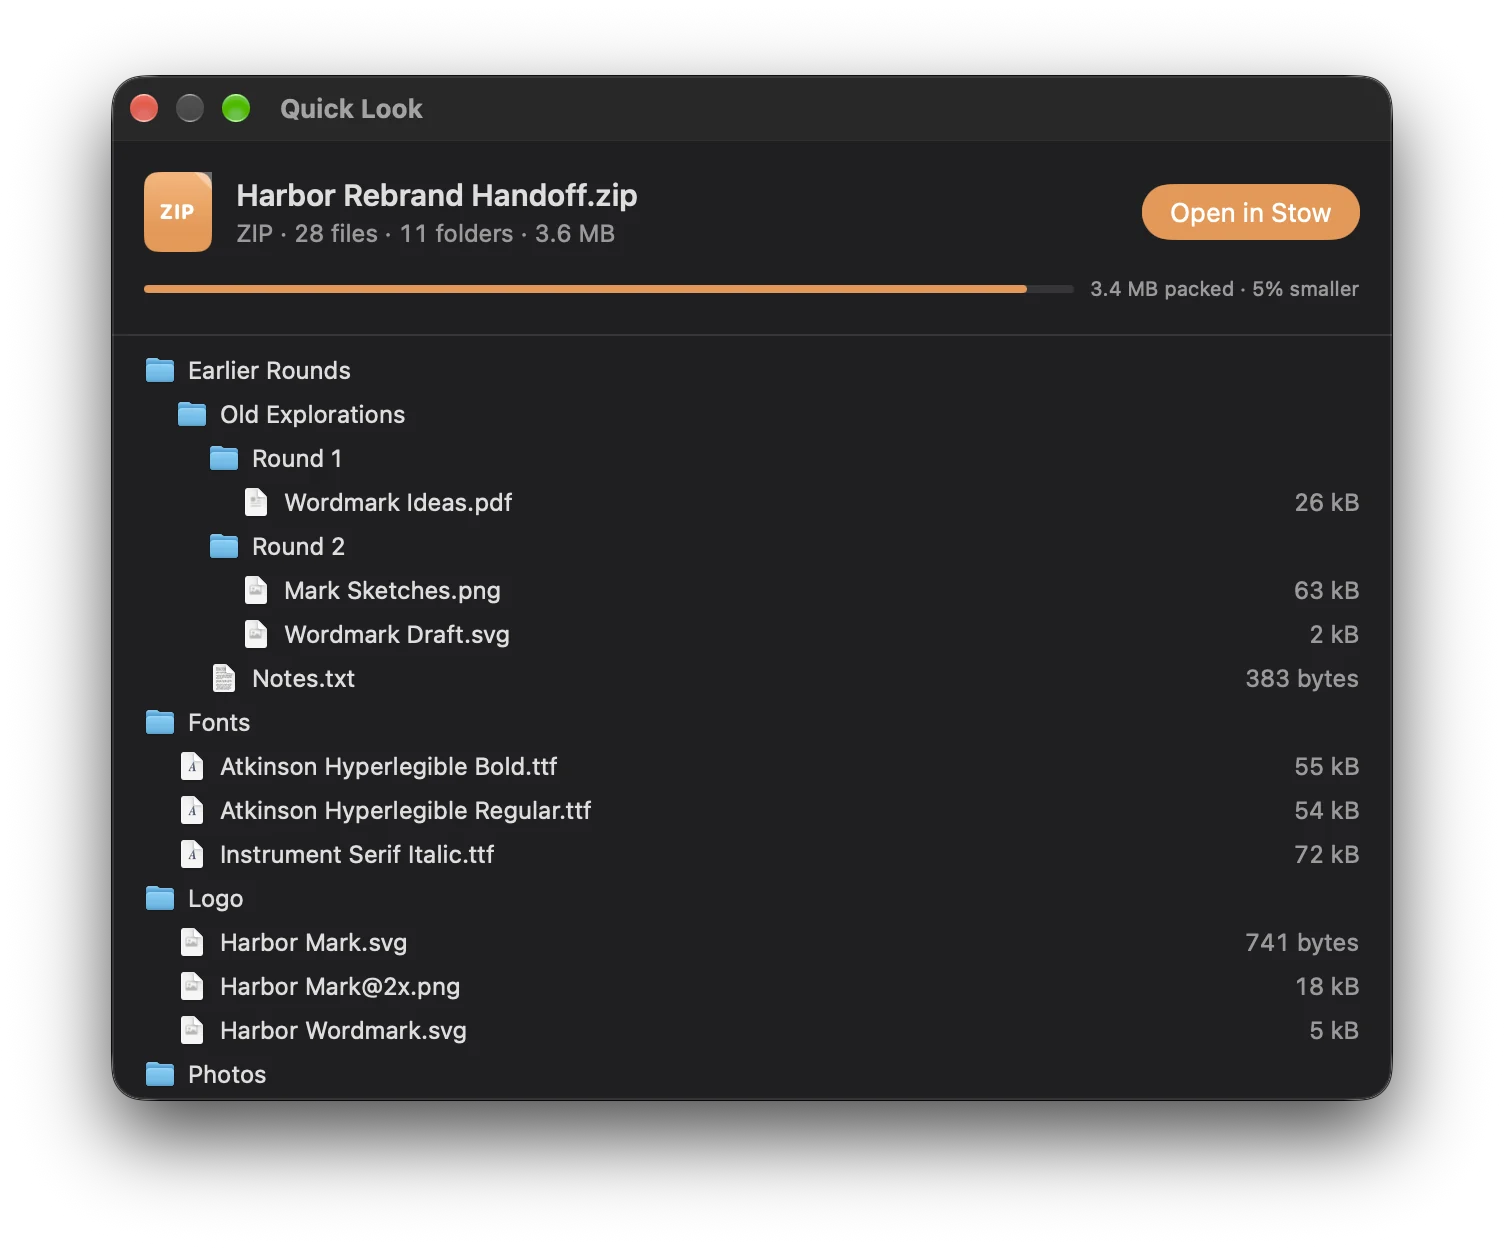
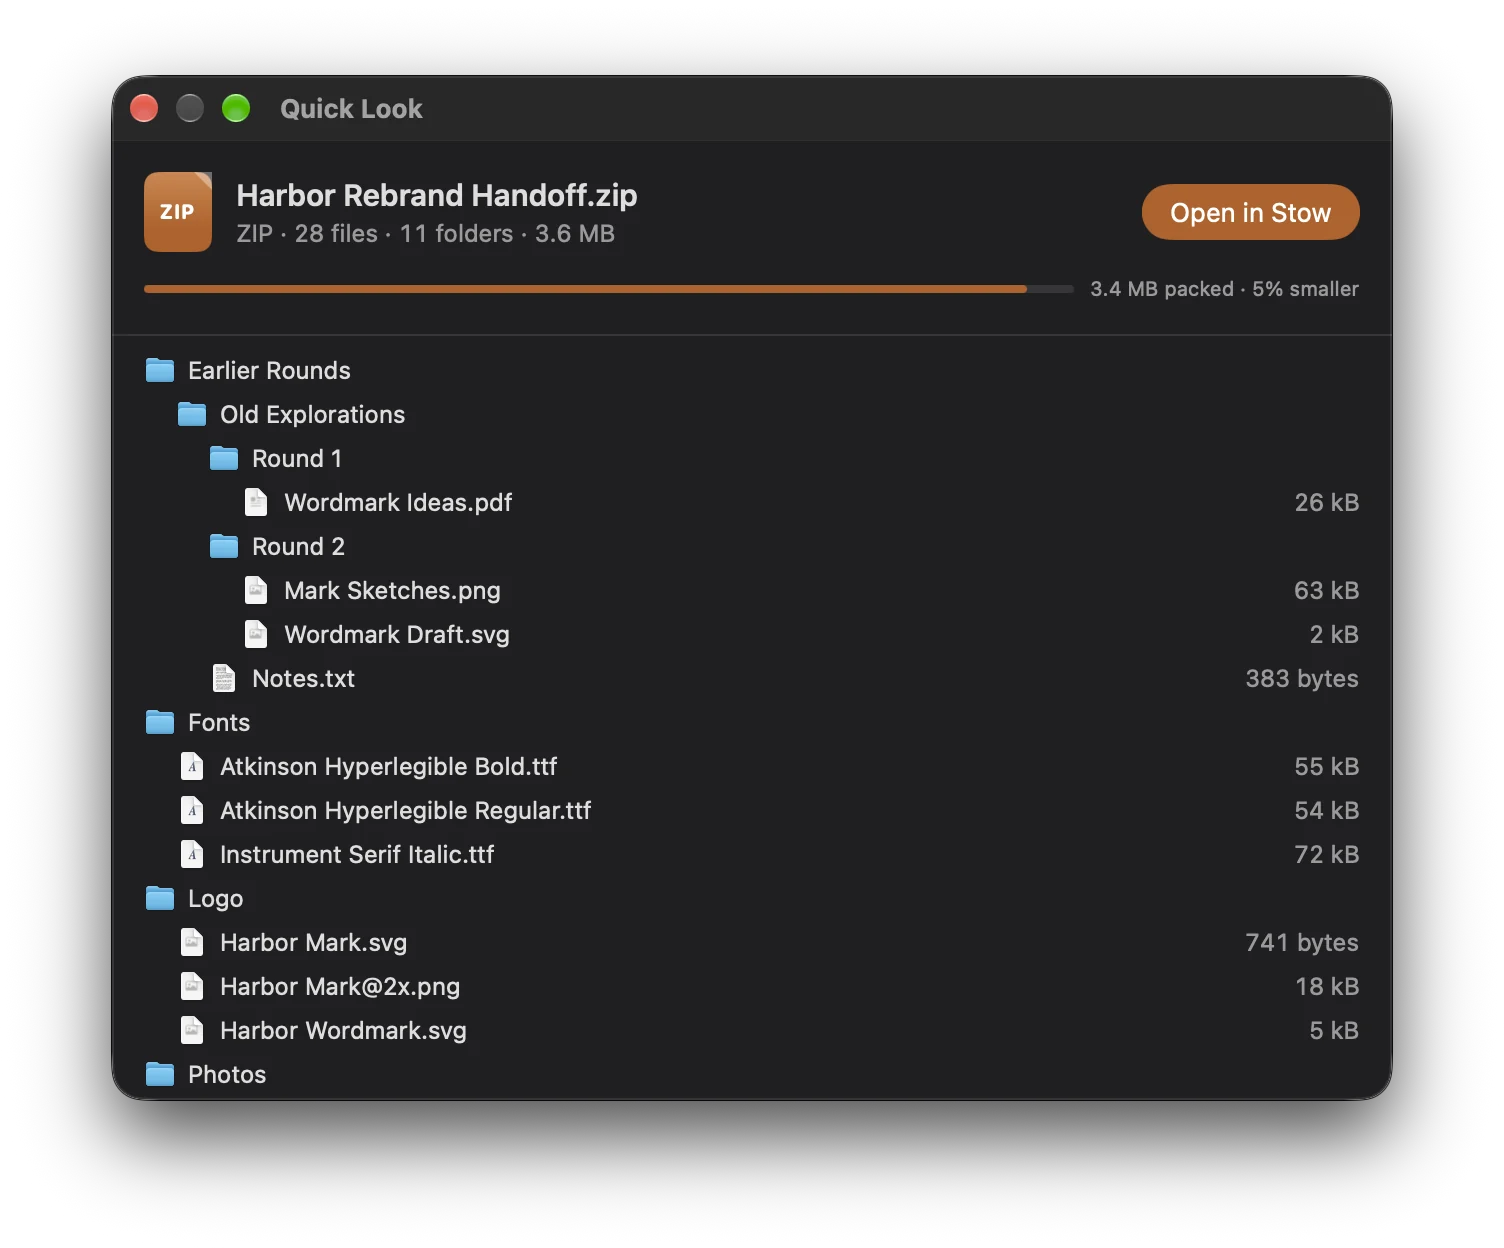
Design: Quick Look uses the app's deep dark-mode amber
Quick Look's preview kept its own copy of the accent with the old dark
#F0954A, so "Open in Stow" was white on light amber (about 2.3 : 1). It
now writes out the app's AccentColor: light #D97B2B, dark #B85E1C and
Increase Contrast #A8551C, so white words reach 4.5 : 1. A test pins it
to the app's asset. Website Quick Look dark shot retaken.

Changed region(s): [[0.0938, 0.125, 0.6875, 0.25], [0.75, 0.125, 0.9062, 0.2188]]

diff --git a/Tests/QuickLookTests.swift b/Tests/QuickLookTests.swift
@@ -1,4 +1,4 @@
-import Foundation
+import AppKit
 import Testing
 @testable import Stow
 
@@ -146,5 +146,33 @@ struct RegisteredTypesTests {
             }
         }
         #expect(ArchiveTypes.type(forFileName: "logs.tar.xz")?.id == "org.tukaani.xz-archive")
+    }
+}
+
+/// Quick Look has no asset catalog, so it writes the accent out. It must stay the app's AccentColor,
+/// or its white button words fall below 4.5 : 1 in dark mode again.
+@Suite("Quick Look accent")
+struct QuickLookAccentTests {
+    private func srgb(_ color: NSColor, in name: NSAppearance.Name) throws -> [Int] {
+        let appearance = try #require(NSAppearance(named: name))
+        var rgb: [Int] = []
+        appearance.performAsCurrentDrawingAppearance {
+            if let c = color.usingColorSpace(.sRGB) {
+                rgb = [c.redComponent, c.greenComponent, c.blueComponent].map { Int(($0 * 255).rounded()) }
+            }
+        }
+        return rgb
+    }
+
+    @Test(arguments: [NSAppearance.Name.aqua, .darkAqua])
+    func matchesTheAppAccent(_ name: NSAppearance.Name) throws {
+        let app = try #require(NSColor(named: "AccentColor", bundle: .main))
+        #expect(try srgb(ArchivePreview.amberColor(for: name), in: name) == srgb(app, in: name))
+    }
+
+    @Test func increaseContrastDeepensInBothLooks() {
+        let deep = ArchivePreview.amberColor(for: .accessibilityHighContrastAqua)
+        #expect(ArchivePreview.amberColor(for: .accessibilityHighContrastDarkAqua) == deep)
+        #expect(deep.usingColorSpace(.sRGB)?.redComponent ?? 0 < ArchivePreview.amberColor(for: .darkAqua).redComponent)
     }
 }

diff --git a/Preview/ArchivePreview.swift b/Preview/ArchivePreview.swift
@@ -21,12 +21,24 @@ struct ArchivePreview: View {
         .frame(minWidth: 360, minHeight: 260)
     }
 
-    /// DESIGN.md › Color: amber, light #D97B2B / dark #F0954A.
+    /// DESIGN.md › Color: the app's AccentColor, written out because the extension has no asset
+    /// catalog. Amber is only ever a fill here (button, badge, bar), so white words on it need
+    /// 4.5 : 1: light #D97B2B, dark #B85E1C, Increase Contrast #A8551C in both.
     static let amber = Color(nsColor: NSColor(name: "StowAmber") { appearance in
-        appearance.bestMatch(from: [.darkAqua, .aqua]) == .darkAqua
-            ? NSColor(red: 0xF0 / 255, green: 0x95 / 255, blue: 0x4A / 255, alpha: 1)
-            : NSColor(red: 0xD9 / 255, green: 0x7B / 255, blue: 0x2B / 255, alpha: 1)
+        amberColor(for: appearance.bestMatch(from: [
+            .aqua, .darkAqua, .accessibilityHighContrastAqua, .accessibilityHighContrastDarkAqua,
+        ]))
     })
+
+    static func amberColor(for appearance: NSAppearance.Name?) -> NSColor {
+        let hex: Int = switch appearance {
+        case .accessibilityHighContrastAqua?, .accessibilityHighContrastDarkAqua?: 0xA8551C
+        case .darkAqua?: 0xB85E1C
+        default: 0xD97B2B
+        }
+        return NSColor(srgbRed: CGFloat(hex >> 16 & 0xFF) / 255, green: CGFloat(hex >> 8 & 0xFF) / 255,
+                       blue: CGFloat(hex & 0xFF) / 255, alpha: 1)
+    }
 }
 
 private struct ListedPreview: View {

diff --git a/DESIGN.md b/DESIGN.md
@@ -305,6 +305,8 @@ footer right under it, no boxes of our own. Plain sidebar symbols, no coloured t
   lightness in dark mode until it reads at 4.5 : 1 on a dark panel (amber becomes about
   `#DF772B`); fills, rings and selection use `.tint`. macOS uses Stow's amber only when the system
   accent is Multicolor; otherwise both follow the person's own accent.
+  The Quick Look extension has no asset catalog and always shows amber, so `ArchivePreview.amber`
+  writes the same values out (Increase Contrast included); `QuickLookAccentTests` keeps them equal.
 - Everything else is system semantic color (`.primary`, `.secondary`, `.separator`, materials).
 - Status: completed = system green, caution = system yellow, blocked = system red. Always paired with an
   icon and words — never color alone.
